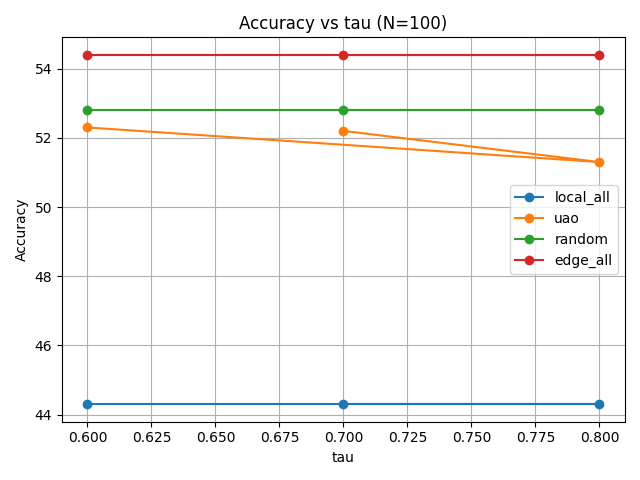
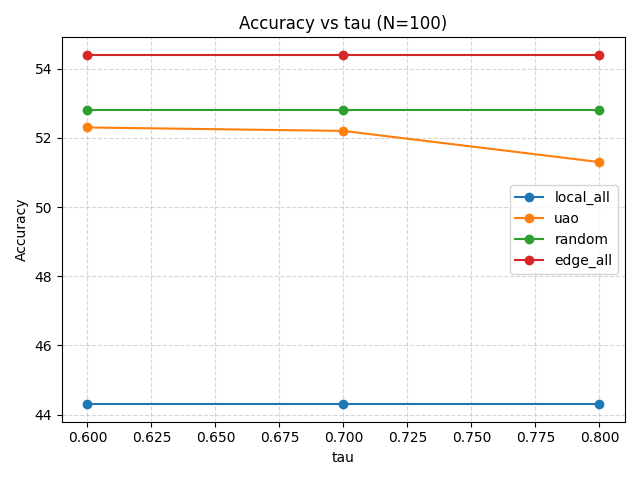
.

diff --git a/result/result.py b/result/result.py
@@ -26,7 +26,7 @@ os.makedirs(plot_dir, exist_ok=True)
 
 
 def plot_accuracy_vs_tau(df, fixed_N, save=True):
-    sub = df[df["N"] == fixed_N]
+    sub = df[df["N"] == fixed_N].sort_values(by="tau").reset_index(drop=True)
 
     plt.figure()
     for method in ["local_all", "uao", "random", "edge_all"]:
@@ -36,7 +36,7 @@ def plot_accuracy_vs_tau(df, fixed_N, save=True):
     plt.ylabel("Accuracy")
     plt.title(f"Accuracy vs tau (N={fixed_N})")
     plt.legend()
-    plt.grid(True)
+    plt.grid(True, linestyle="--", alpha=0.5)
     plt.tight_layout()
 
     if save:
@@ -47,7 +47,11 @@ def plot_accuracy_vs_tau(df, fixed_N, save=True):
 
 
 def plot_accuracy_vs_N(df, fixed_tau, save=True):
-    sub = df[df["tau"] == fixed_tau]
+    sub = (
+        df[(df["tau"] == fixed_tau) & (df["N"] != 100)]
+        .sort_values(by="N")
+        .reset_index(drop=True)
+    )
 
     plt.figure()
     for method in ["local_all", "uao", "random", "edge_all"]:
@@ -57,7 +61,8 @@ def plot_accuracy_vs_N(df, fixed_tau, save=True):
     plt.ylabel("Accuracy")
     plt.title(f"Accuracy vs N (tau={fixed_tau})")
     plt.legend()
-    plt.grid(True)
+    plt.grid(True, linestyle="--", alpha=0.5)
+    plt.xticks(range(150, sub["N"].max() + 1, 50))
     plt.tight_layout()
 
     if save:
@@ -67,8 +72,56 @@ def plot_accuracy_vs_N(df, fixed_tau, save=True):
     plt.close()
 
 
+def plot_delay_vs_tau(df, fixed_N, save=True):
+    sub = df[df["N"] == fixed_N].sort_values(by="tau").reset_index(drop=True)
+
+    plt.figure()
+    for method in ["local_all", "uao", "random", "edge_all"]:
+        plt.plot(sub["tau"], sub[f"delay_{method}"], marker="o", label=method)
+
+    plt.xlabel("tau")
+    plt.ylabel("Delay")
+    plt.title(f"Delay vs tau (N={fixed_N})")
+    plt.legend()
+    plt.grid(True, linestyle="--", alpha=0.5)
+    plt.tight_layout()
+
+    if save:
+        fname = f"delay_vs_tau_N{fixed_N}.png"
+        plt.savefig(os.path.join(plot_dir, fname))
+
+    plt.close()
+
+
+def plot_delay_vs_N(df, fixed_tau, save=True):
+    sub = (
+        df[(df["tau"] == fixed_tau) & (df["N"] != 100)]
+        .sort_values(by="N")
+        .reset_index(drop=True)
+    )
+
+    plt.figure()
+    for method in ["local_all", "uao", "random", "edge_all"]:
+        plt.plot(sub["N"], sub[f"delay_{method}"], marker="o", label=method)
+
+    plt.xlabel("N")
+    plt.ylabel("Delay")
+    plt.title(f"Delay vs N (tau={fixed_tau})")
+    plt.legend()
+    plt.grid(True, linestyle="--", alpha=0.5)
+    plt.tight_layout()
+
+    if save:
+        fname = f"delay_vs_N_tau{fixed_tau}.png"
+        plt.savefig(os.path.join(plot_dir, fname))
+
+    plt.close()
+
+
 for tau_val in sorted(full_df["tau"].unique()):
     plot_accuracy_vs_N(full_df, fixed_tau=tau_val, save=True)
+    plot_delay_vs_N(full_df, fixed_tau=tau_val, save=True)
 
 for N_val in sorted(full_df["N"].unique()):
     plot_accuracy_vs_tau(full_df, fixed_N=N_val, save=True)
+    plot_delay_vs_tau(full_df, fixed_N=N_val, save=True)
